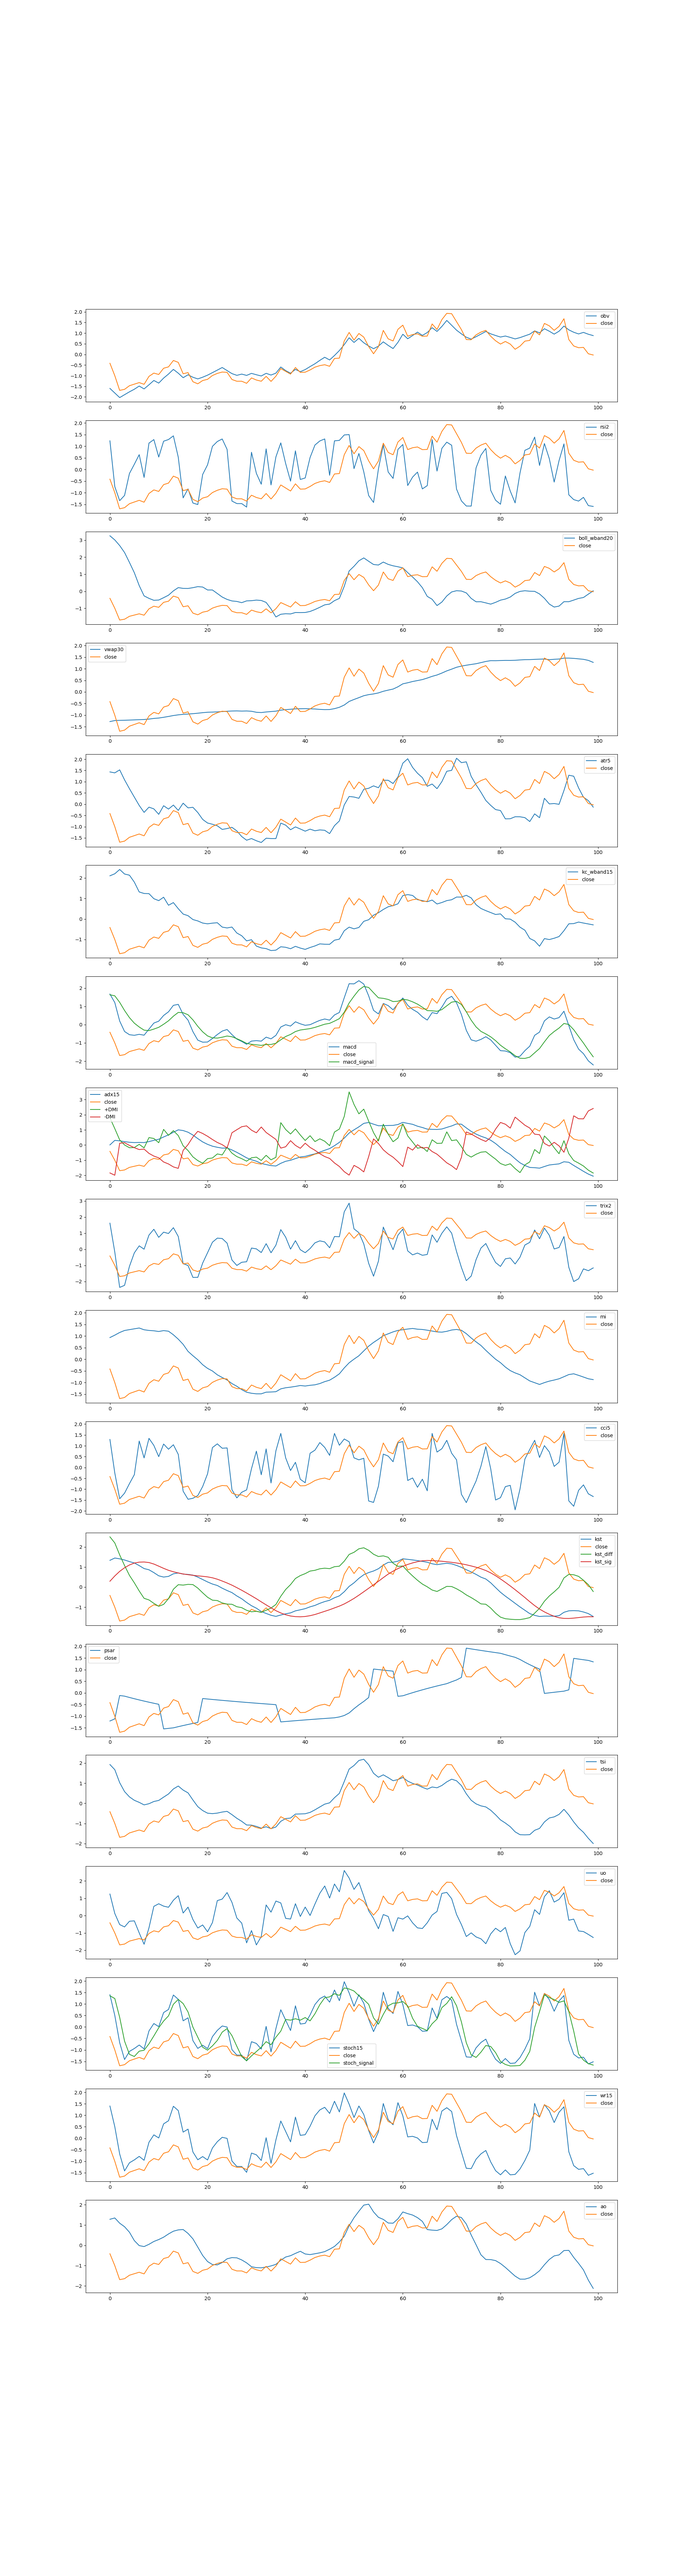
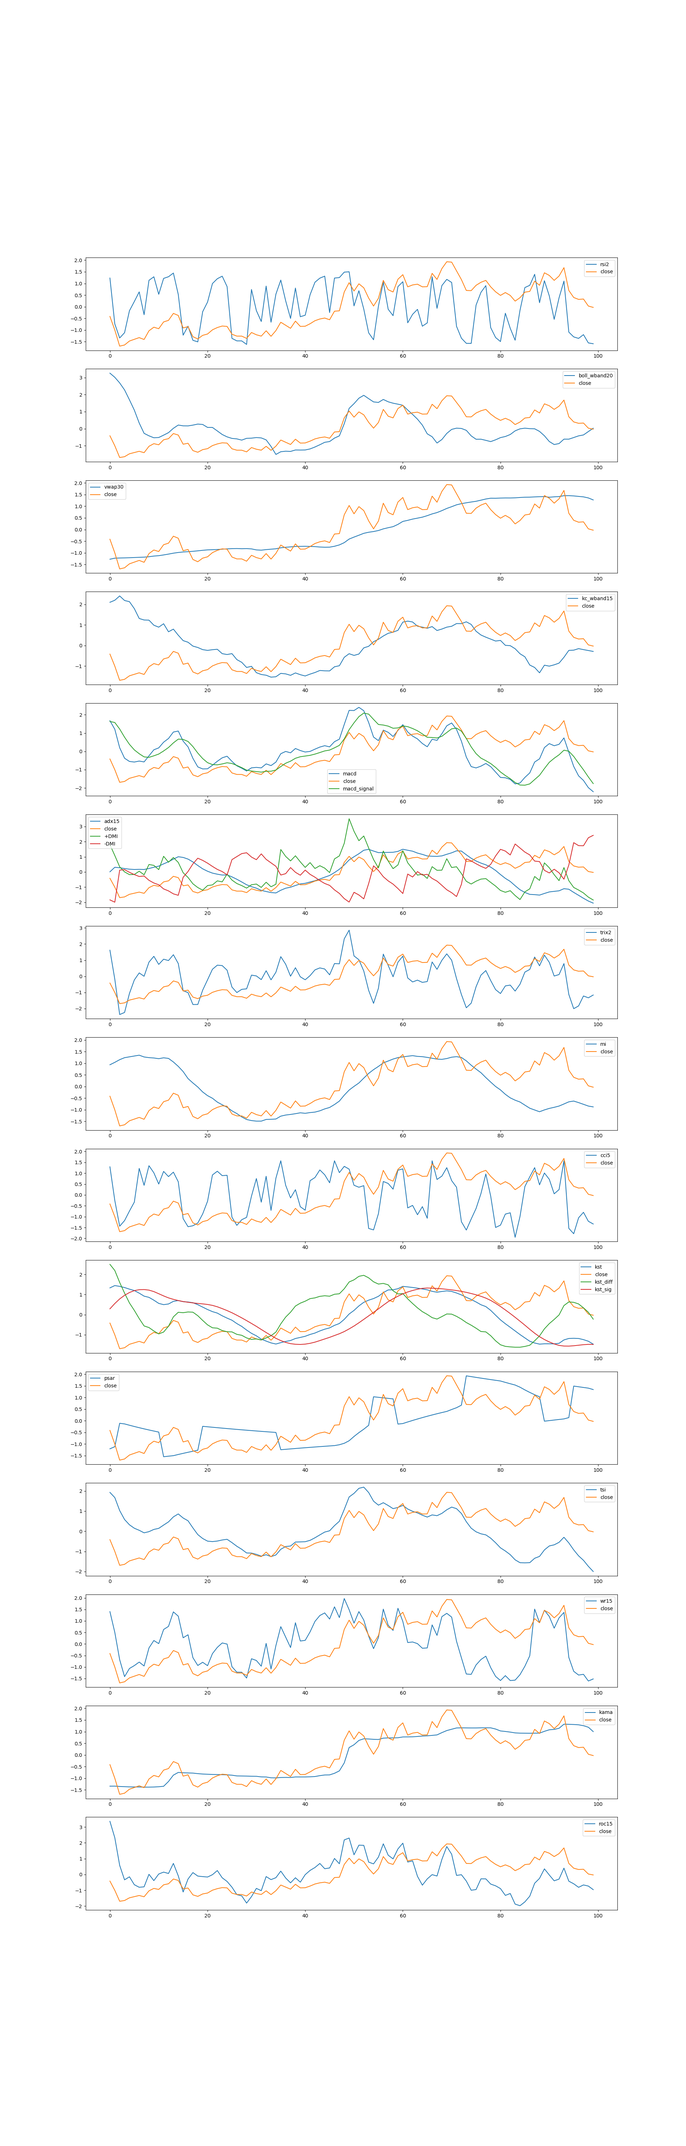
up

diff --git a/stock.py b/stock.py
@@ -723,6 +723,63 @@ def add_ao_info(data):
 
     return new_data
 
+def add_kama_info(data):
+    new_data = data.reset_index(drop=True)
+    kama = ta.momentum.KAMAIndicator(close=new_data.iloc[-1::-1].close)
+    col = "kama"
+    new_data[col] = kama.kama()
+    temp = new_data.iloc[1:][col].tolist()
+    temp.append(np.nan)
+    new_data["pre_%s" % col] = temp
+
+    return new_data
+
+def add_roc_info(data):
+    new_data = data.reset_index(drop=True)
+    days = [2,5,10,15,20,30]
+    for day in days:
+        roc = ta.momentum.ROCIndicator(close=new_data.iloc[-1::-1].close, n=day)
+        col = "roc%d" % day
+        new_data[col] = roc.roc()
+        temp = new_data.iloc[1:][col].tolist()
+        temp.append(np.nan)
+        new_data["pre_%s" % col] = temp
+
+    return new_data
+
+def add_dr_info(data):
+    new_data = data.reset_index(drop=True)
+    dr = ta.others.DailyReturnIndicator(close=new_data.iloc[-1::-1].close)
+    col = "dr"
+    new_data[col] = dr.daily_return()
+    temp = new_data.iloc[1:][col].tolist()
+    temp.append(np.nan)
+    new_data["pre_%s" % col] = temp
+
+    return new_data
+
+def add_dlr_info(data):
+    new_data = data.reset_index(drop=True)
+    dlr = ta.others.DailyLogReturnIndicator(close=new_data.iloc[-1::-1].close)
+    col = "dlr"
+    new_data[col] = dlr.daily_log_return()
+    temp = new_data.iloc[1:][col].tolist()
+    temp.append(np.nan)
+    new_data["pre_%s" % col] = temp
+
+    return new_data
+
+def add_cr_info(data):
+    new_data = data.reset_index(drop=True)
+    cr = ta.others.CumulativeReturnIndicator(close=new_data.iloc[-1::-1].close)
+    col = "cr"
+    new_data[col] = cr.cumulative_return()
+    temp = new_data.iloc[1:][col].tolist()
+    temp.append(np.nan)
+    new_data["pre_%s" % col] = temp
+
+    return new_data
+
 def add_features(data):
     # previous day info
     new_data = add_preday_info(data)
@@ -788,6 +845,16 @@ def add_features(data):
     new_data = add_wr_info(new_data)
     # awesome oscillator
     new_data = add_ao_info(new_data)
+    # kaufman's adaptive moving average
+    new_data = add_kama_info(new_data)
+    # rate of change
+    new_data = add_roc_info(new_data)
+    # daily return
+    new_data = add_dr_info(new_data)
+    # daily log return
+    new_data = add_dlr_info(new_data)
+    # cumulative return
+    new_data = add_cr_info(new_data)
 
     return new_data
 
@@ -919,7 +986,7 @@ if __name__ == "__main__":
     print("data length: %d" % len(data))
     data = add_features(data)
     print("columns: %s", data.columns.tolist())
-    plot_data(data, 100, 'close', ['obv', 'rsi2', 'boll_wband20', 'vwap30', 'atr5', 'kc_wband15', 'macd', 'adx15', 'trix2', 'mi', 'cci5', 'kst', 'psar', 'tsi', 'uo', 'stoch15', 'wr15'])
+    plot_data(data, 100, 'close', ['rsi2', 'boll_wband20', 'vwap30', 'kc_wband15', 'macd', 'adx15', 'trix2', 'mi', 'cci5', 'kst', 'psar', 'tsi', 'wr15', 'kama', 'roc15'])
 
     model = Model(data.columns.tolist())
     model.train(data.iloc[predict_days - 1:-200])

diff --git a/NOTE.md b/NOTE.md
@@ -1,0 +1,31 @@
+### 结论
+
+经过这段时间的测试，选出以下指标，其中close为收盘价
+
+ - rsi2: 即两日RSI，2周期RSI是一个比较敏感的指标，对短期阶段性的买点判断比较准确，但是对买点判断不准确，只依靠2周期RSI容易卖飞，遇到差行情很容易回撤
+
+ - boll_wband20: 20周期的bollinger bands，对于短期趋势的判定很准确，当价格线上穿boll_wband20并且与boll_wband20同趋势的时候，是很强的上升势
+
+ - vwap30: 30周期的volume weighted average price，当价格线上穿vwap30并且与vwap30同趋势的时候，是很强的上升势
+
+ - kc_wband15: 15周期的keltner channel，当价格线上穿kc_wband15并且与kc_wband15同趋势的时候，是很强的上升势
+
+ - macd: 快线5周期，慢线15周期，信号线7周期，当macd线上穿信号线的时候是上升趋势，但是有一定的延时性
+
+ - adx15: 15周期average directional movement index, 当+DMI > -DMI的时候是上升势
+
+ - trix2: 2周期trix，当trix2上穿价格线并且与价格线同趋势的时候，是很强的上升势
+
+ - mi: mass index，当价格线上穿mi并且与mi同趋势的时候，是很强的上升势
+
+ - cci5: 5周期的commodity channel index，非常敏感，当cci5 > close并且没有很明显的下降趋势的时候，是上升势
+
+ - kst: kst oscillator, 当kst上穿信号线并且同趋势的时候，是很强的上升势，有误判情况
+
+ - psar: parabolic stop and reverse，每次价格线上穿psar都是买点
+
+ - tsi: true strength index，tsi上穿价格线是很强的上升势
+
+ - wr15: 15周期williams percent range，当wr15上穿价格线并持续保持在价格线之上，是上升势
+
+ - roc15: 15周期rate of change，当roc15上穿价格线并保持在价格线之上，是上升势
